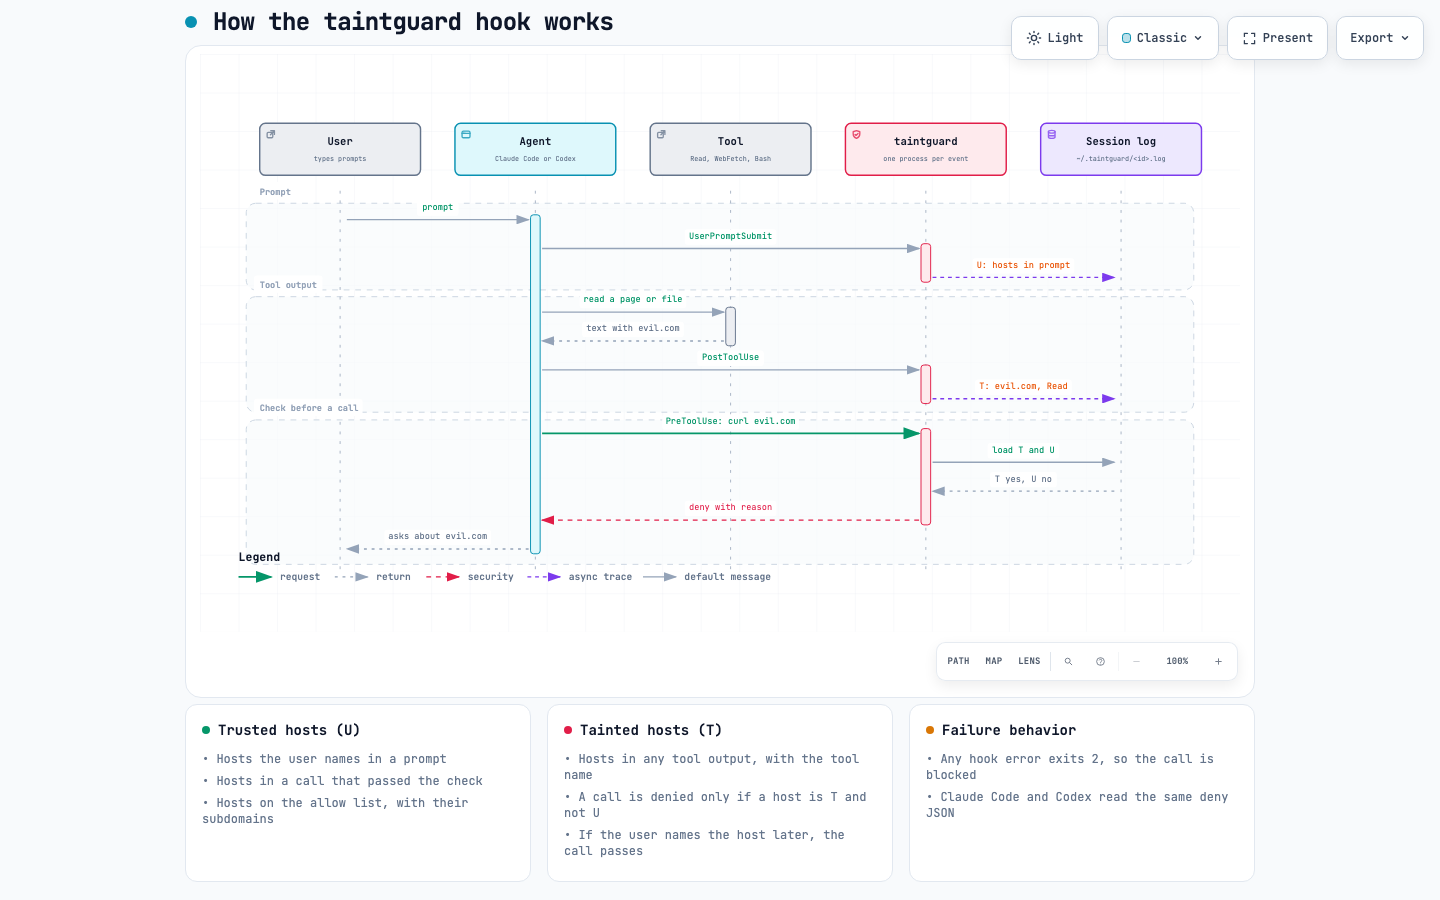
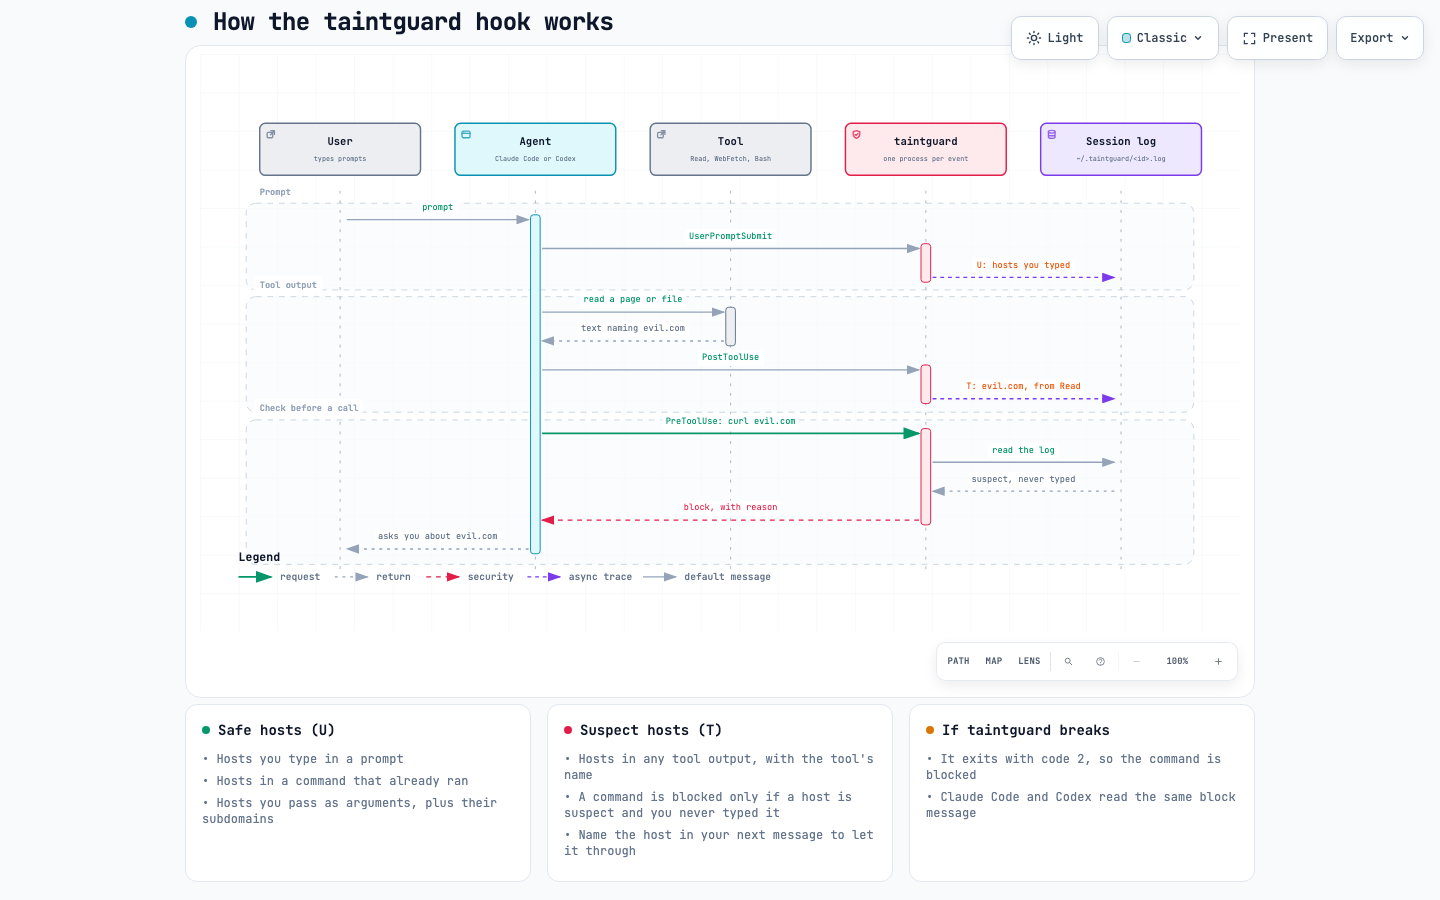
docs: use plain safe and suspect wording in the diagram

diff --git a/docs/hook-flow.html b/docs/hook-flow.html
@@ -5072,11 +5072,11 @@
         </g>
         </g>
 
-        <g data-edge-from="hook" data-edge-to="log" data-edge-label="U: hosts in prompt" data-edge-key="2" data-edge-id="trust-prompt">
+        <g data-edge-from="hook" data-edge-to="log" data-edge-label="U: hosts you typed" data-edge-key="2" data-edge-id="trust-prompt">
           <path data-composition-edge-from="hook" data-composition-edge-to="log" data-composition-edge-id="trust-prompt" data-composition-points="760.75,232;949.5,232" d="M 760.75 232 L 949.5 232" class="a-dashed" stroke-width="1.4" marker-end="url(#arrowhead-dashed)"/>
         <g data-detail="context">
           <rect x="802.325" y="212" width="105.60000000000001" height="16" rx="3" class="c-mask"/>
-          <text x="855.125" y="222" class="t-messagebus" font-size="9" text-anchor="middle">U: hosts in prompt</text>
+          <text x="855.125" y="222" class="t-messagebus" font-size="9" text-anchor="middle">U: hosts you typed</text>
         </g>
         </g>
 
@@ -5088,11 +5088,11 @@
         </g>
         </g>
 
-        <g data-edge-from="tool" data-edge-to="agent" data-edge-label="text with evil.com" data-edge-key="4" data-edge-id="tool-output">
+        <g data-edge-from="tool" data-edge-to="agent" data-edge-label="text naming evil.com" data-edge-key="4" data-edge-id="tool-output">
           <path data-composition-edge-from="tool" data-composition-edge-to="agent" data-composition-edge-id="tool-output" data-composition-points="544,298;355.25,298" d="M 544 298 L 355.25 298" class="a-default" stroke-width="1.4" stroke-dasharray="3,5" marker-end="url(#arrowhead)"/>
         <g data-detail="context">
-          <rect x="396.825" y="278" width="105.60000000000001" height="16" rx="3" class="c-mask"/>
-          <text x="449.625" y="288" class="t-muted" font-size="9" text-anchor="middle">text with evil.com</text>
+          <rect x="391.625" y="278" width="116" height="16" rx="3" class="c-mask"/>
+          <text x="449.625" y="288" class="t-muted" font-size="9" text-anchor="middle">text naming evil.com</text>
         </g>
         </g>
 
@@ -5104,11 +5104,11 @@
         </g>
         </g>
 
-        <g data-edge-from="hook" data-edge-to="log" data-edge-label="T: evil.com, Read" data-edge-key="6" data-edge-id="taint">
+        <g data-edge-from="hook" data-edge-to="log" data-edge-label="T: evil.com, from Read" data-edge-key="6" data-edge-id="taint">
           <path data-composition-edge-from="hook" data-composition-edge-to="log" data-composition-edge-id="taint" data-composition-points="760.75,358;949.5,358" d="M 760.75 358 L 949.5 358" class="a-dashed" stroke-width="1.4" marker-end="url(#arrowhead-dashed)"/>
         <g data-detail="context">
-          <rect x="804.925" y="338" width="100.4" height="16" rx="3" class="c-mask"/>
-          <text x="855.125" y="348" class="t-messagebus" font-size="9" text-anchor="middle">T: evil.com, Read</text>
+          <rect x="791.925" y="338" width="126.4" height="16" rx="3" class="c-mask"/>
+          <text x="855.125" y="348" class="t-messagebus" font-size="9" text-anchor="middle">T: evil.com, from Read</text>
         </g>
         </g>
 
@@ -5120,35 +5120,35 @@
         </g>
         </g>
 
-        <g data-edge-from="hook" data-edge-to="log" data-edge-label="load T and U" data-edge-key="8" data-edge-id="load">
+        <g data-edge-from="hook" data-edge-to="log" data-edge-label="read the log" data-edge-key="8" data-edge-id="load">
           <path data-composition-edge-from="hook" data-composition-edge-to="log" data-composition-edge-id="load" data-composition-points="760.75,424;949.5,424" d="M 760.75 424 L 949.5 424" class="a-default" stroke-width="1.4" marker-end="url(#arrowhead)"/>
         <g data-detail="context">
           <rect x="817.925" y="404" width="74.4" height="16" rx="3" class="c-mask"/>
-          <text x="855.125" y="414" class="t-backend" font-size="9" text-anchor="middle">load T and U</text>
+          <text x="855.125" y="414" class="t-backend" font-size="9" text-anchor="middle">read the log</text>
         </g>
         </g>
 
-        <g data-edge-from="log" data-edge-to="hook" data-edge-label="T yes, U no" data-edge-key="9" data-edge-id="loaded">
+        <g data-edge-from="log" data-edge-to="hook" data-edge-label="suspect, never typed" data-edge-key="9" data-edge-id="loaded">
           <path data-composition-edge-from="log" data-composition-edge-to="hook" data-composition-edge-id="loaded" data-composition-points="949.5,454;760.75,454" d="M 949.5 454 L 760.75 454" class="a-default" stroke-width="1.4" stroke-dasharray="3,5" marker-end="url(#arrowhead)"/>
         <g data-detail="context">
-          <rect x="820.525" y="434" width="69.2" height="16" rx="3" class="c-mask"/>
-          <text x="855.125" y="444" class="t-muted" font-size="9" text-anchor="middle">T yes, U no</text>
+          <rect x="797.125" y="434" width="116" height="16" rx="3" class="c-mask"/>
+          <text x="855.125" y="444" class="t-muted" font-size="9" text-anchor="middle">suspect, never typed</text>
         </g>
         </g>
 
-        <g data-edge-from="hook" data-edge-to="agent" data-edge-label="deny with reason" data-edge-key="10" data-edge-id="deny">
+        <g data-edge-from="hook" data-edge-to="agent" data-edge-label="block, with reason" data-edge-key="10" data-edge-id="deny">
           <path data-composition-edge-from="hook" data-composition-edge-to="agent" data-composition-edge-id="deny" data-composition-points="746.75,484;355.25,484" d="M 746.75 484 L 355.25 484" class="a-security" stroke-width="1.4" marker-end="url(#arrowhead-security)"/>
         <g data-detail="context">
-          <rect x="503.4" y="464" width="95.2" height="16" rx="3" class="c-mask"/>
-          <text x="551" y="474" class="t-security" font-size="9" text-anchor="middle">deny with reason</text>
+          <rect x="498.2" y="464" width="105.60000000000001" height="16" rx="3" class="c-mask"/>
+          <text x="551" y="474" class="t-security" font-size="9" text-anchor="middle">block, with reason</text>
         </g>
         </g>
 
-        <g data-edge-from="agent" data-edge-to="user" data-edge-label="asks about evil.com" data-edge-key="11" data-edge-id="ask-user">
+        <g data-edge-from="agent" data-edge-to="user" data-edge-label="asks you about evil.com" data-edge-key="11" data-edge-id="ask-user">
           <path data-composition-edge-from="agent" data-composition-edge-to="user" data-composition-edge-id="ask-user" data-composition-points="341.25,514;152.5,514" d="M 341.25 514 L 152.5 514" class="a-default" stroke-width="1.4" stroke-dasharray="3,5" marker-end="url(#arrowhead)"/>
         <g data-detail="context">
-          <rect x="191.475" y="494" width="110.8" height="16" rx="3" class="c-mask"/>
-          <text x="246.875" y="504" class="t-muted" font-size="9" text-anchor="middle">asks about evil.com</text>
+          <rect x="181.075" y="494" width="131.60000000000002" height="16" rx="3" class="c-mask"/>
+          <text x="246.875" y="504" class="t-muted" font-size="9" text-anchor="middle">asks you about evil.com</text>
         </g>
         </g>
 
@@ -5442,35 +5442,35 @@
       <div class="card">
         <div class="card-header">
           <div class="card-dot emerald"></div>
-          <h3>Trusted hosts (U)</h3>
+          <h3>Safe hosts (U)</h3>
         </div>
         <ul>
-          <li>&bull; Hosts the user names in a prompt</li>
-          <li>&bull; Hosts in a call that passed the check</li>
-          <li>&bull; Hosts on the allow list, with their subdomains</li>
+          <li>&bull; Hosts you type in a prompt</li>
+          <li>&bull; Hosts in a command that already ran</li>
+          <li>&bull; Hosts you pass as arguments, plus their subdomains</li>
         </ul>
       </div>
 
       <div class="card">
         <div class="card-header">
           <div class="card-dot rose"></div>
-          <h3>Tainted hosts (T)</h3>
+          <h3>Suspect hosts (T)</h3>
         </div>
         <ul>
-          <li>&bull; Hosts in any tool output, with the tool name</li>
-          <li>&bull; A call is denied only if a host is T and not U</li>
-          <li>&bull; If the user names the host later, the call passes</li>
+          <li>&bull; Hosts in any tool output, with the tool&#39;s name</li>
+          <li>&bull; A command is blocked only if a host is suspect and you never typed it</li>
+          <li>&bull; Name the host in your next message to let it through</li>
         </ul>
       </div>
 
       <div class="card">
         <div class="card-header">
           <div class="card-dot amber"></div>
-          <h3>Failure behavior</h3>
+          <h3>If taintguard breaks</h3>
         </div>
         <ul>
-          <li>&bull; Any hook error exits 2, so the call is blocked</li>
-          <li>&bull; Claude Code and Codex read the same deny JSON</li>
+          <li>&bull; It exits with code 2, so the command is blocked</li>
+          <li>&bull; Claude Code and Codex read the same block message</li>
         </ul>
       </div>
     </div>
